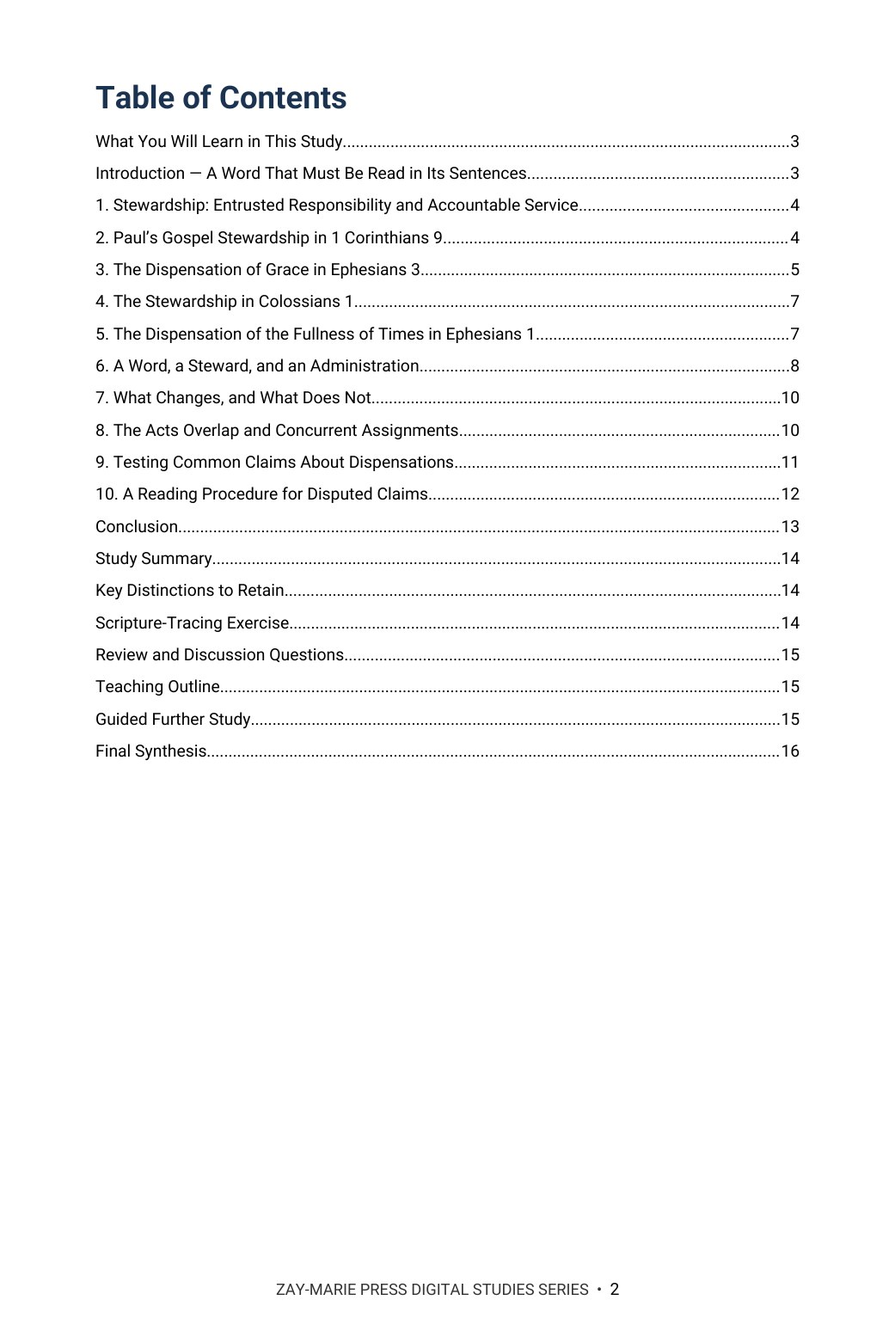
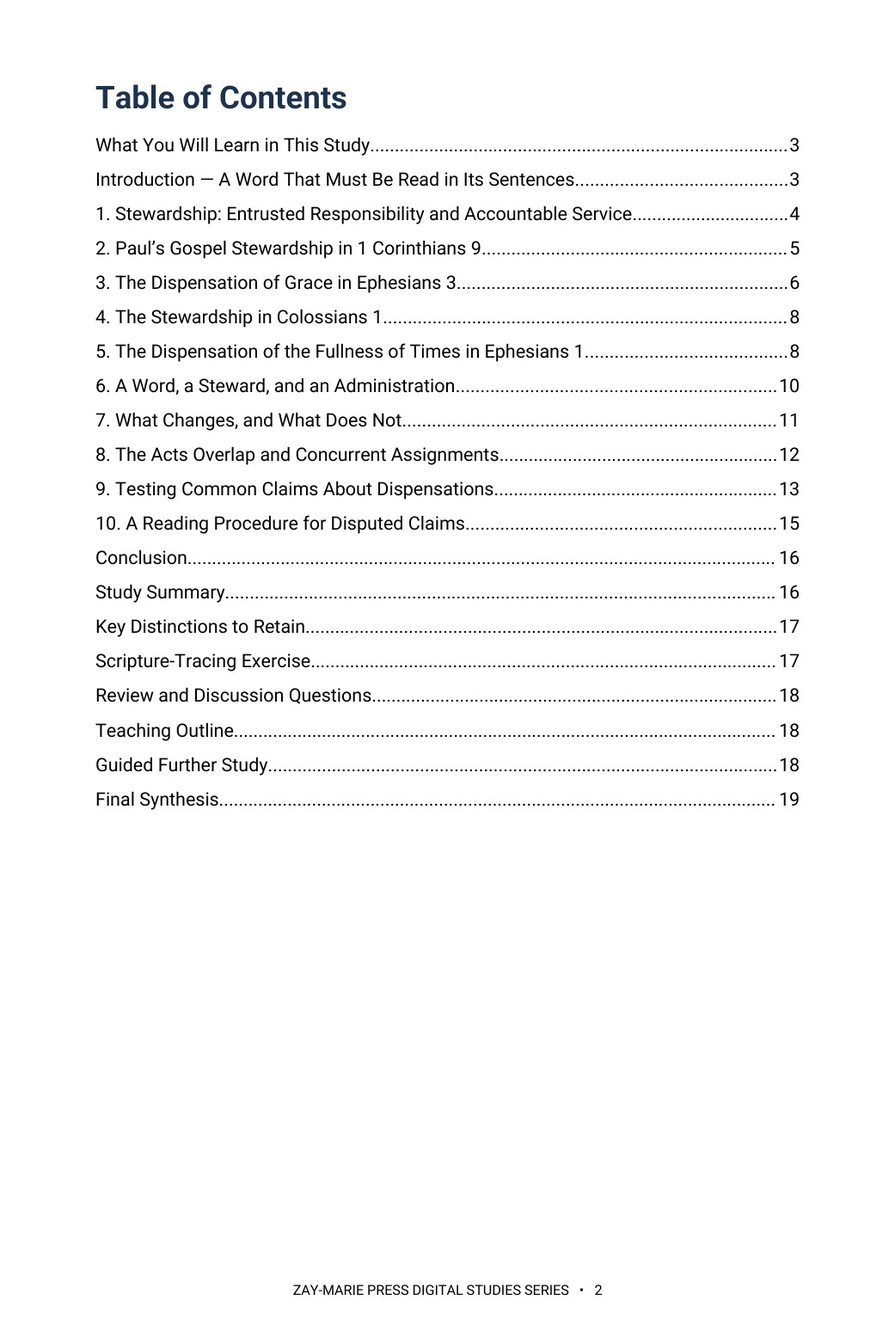
Study 58: rebuild at 10 pt (19 pages), retrofit edits, previews 2/3/8; trackers v1.71/v1.165
Claude-Session: https://claude.ai/code/session_01KcENxFzE91mCRyTPWhcwnE

Changed region(s): [[0.0922, 0.0922, 0.707, 0.6146], [0.8607, 0.0922, 0.8915, 0.5839], [0.3074, 0.9526, 0.6455, 0.9834]]

diff --git a/study-58-what-is-a-dispensation.html b/study-58-what-is-a-dispensation.html
@@ -1,12 +1,12 @@
 <!doctype html>
-<html lang="en"><head><meta charset="utf-8"><meta name="viewport" content="width=device-width,initial-scale=1"><title>What Is a Dispensation? | Zay-Marie Press</title><meta name="description" content="Study 58 examines Paul’s entrusted stewardship, the Mystery revealed through him, and the future administration in Ephesians 1. Preview the 16-page digital study."><link rel="stylesheet" href="styles.css?v=20260921-4"><link rel="icon" type="image/png" href="assets/zay-marie-press-favicon.png"><style>
+<html lang="en"><head><meta charset="utf-8"><meta name="viewport" content="width=device-width,initial-scale=1"><title>What Is a Dispensation? | Zay-Marie Press</title><meta name="description" content="Study 58 examines Paul’s entrusted stewardship, the Mystery revealed through him, and the future administration in Ephesians 1. Preview the 19-page digital study."><link rel="stylesheet" href="styles.css?v=20260921-4"><link rel="icon" type="image/png" href="assets/zay-marie-press-favicon.png"><style>
 .study-detail-page{background:#fff;color:#252525}.detail-hero{background:linear-gradient(135deg,#f8f5ec,#e3ece2);padding:58px 0}.detail-hero-grid{display:grid;grid-template-columns:minmax(250px,.72fr) minmax(0,1.28fr);gap:58px;align-items:center}.detail-cover{max-width:390px;margin:auto}.detail-cover img{display:block;width:100%;height:auto;box-shadow:0 14px 36px rgba(8,45,69,.18)}.detail-hero h1{font-size:clamp(2.7rem,5vw,4.7rem);line-height:1.02;margin:8px 0 10px;color:#143823}.detail-subtitle{font-family:Georgia,serif;font-size:1.35rem;font-weight:700;color:#082d45;margin:0 0 7px}.detail-kicker{font-family:Georgia,serif;font-style:italic;font-size:1.05rem;color:#4a4a44;margin:0 0 22px}.detail-copy{font-size:1.08rem;line-height:1.65;max-width:760px}.detail-buyline{display:flex;align-items:center;gap:18px;flex-wrap:wrap;margin-top:25px}.detail-price{font-family:Georgia,serif;font-size:2rem;font-weight:700;color:#143823}.detail-format,.preview-card .page-no{font-family:Arial,sans-serif;font-size:.76rem;font-weight:700;letter-spacing:.1em;text-transform:uppercase;color:#176b3a}.detail-button{display:inline-block;background:#176b3a;color:#fff;padding:13px 22px;font-family:Arial,sans-serif;font-size:.8rem;font-weight:700;letter-spacing:.07em;text-transform:uppercase}.detail-button.pending{opacity:.72;cursor:default}.detail-section{padding:66px 0}.detail-section.soft{background:#f6f7f2}.detail-section.cream{background:#faf8f2}.detail-section h2{color:#143823;margin:6px 0 18px;font-size:clamp(2rem,3.4vw,3rem)}.detail-section .lead{max-width:920px;font-size:1.1rem;line-height:1.62}.study-distinction{max-width:920px;margin-top:28px;margin-bottom:28px;padding:26px 28px;background:#fff;border:1px solid #d8d1bf;border-left:4px solid #b8871c}.study-distinction h3{margin:0 0 10px;color:#143823}.study-distinction p{margin:0 0 14px;line-height:1.62}.study-distinction a{font-family:Arial,sans-serif;font-weight:700;color:#176b3a;text-decoration:none}.study-points{display:grid;grid-template-columns:repeat(3,1fr);gap:18px;margin-top:28px;margin-bottom:28px}.study-point,.scripture-card,.preview-card,.include-item{background:#fff;border:1px solid var(--line);text-align:left}.study-point{border-top:3px solid #176b3a;padding:22px}.study-point h3{color:#143823;margin:0 0 8px;font-size:1.2rem}.study-point p,.scripture-card p,.preview-card p,.include-item p{margin:0;line-height:1.55}.scripture-grid{display:grid;grid-template-columns:repeat(4,1fr);gap:14px;margin-top:24px;margin-bottom:24px}.scripture-card{padding:22px 20px;color:#143823}.scripture-card h3{margin:0 0 9px;font-family:Georgia,serif;font-size:1rem;line-height:1.35}.scripture-card p{font-size:.94rem;color:#45453f}.excerpt{max-width:900px;margin:28px auto;border-left:4px solid #b8871c;padding:10px 0 10px 28px}.excerpt blockquote{font-family:Georgia,serif;font-size:clamp(1.45rem,2.5vw,2rem);line-height:1.45;color:#143823;margin:0 0 16px}.excerpt p{line-height:1.6;margin:0}.preview-grid{display:grid;grid-template-columns:repeat(2,1fr);gap:20px;margin-top:28px;margin-bottom:28px}.preview-card{padding:18px;min-height:210px;box-shadow:0 7px 20px rgba(20,40,25,.05)}.preview-image-link{display:block;margin:0 0 18px}.preview-image-link img{display:block;width:100%;height:auto;border:1px solid #d8d1bf;box-shadow:0 8px 22px rgba(20,40,25,.1);transition:transform .18s ease,box-shadow .18s ease}.preview-image-link:hover img{transform:translateY(-2px);box-shadow:0 11px 28px rgba(20,40,25,.16)}.preview-card h3{color:#143823;margin:8px 0 10px}.preview-instruction{margin:10px 0 0;font-family:Arial,sans-serif;font-size:.78rem;letter-spacing:.04em;color:#5b5b55}.includes-grid{display:grid;grid-template-columns:repeat(4,1fr);gap:14px;margin-top:26px}.include-item{padding:22px 20px;color:#143823}.include-item h3{margin:0 0 9px;font-family:Arial,sans-serif;font-size:.86rem;line-height:1.35;letter-spacing:.02em}.include-item p{font-size:.94rem;color:#45453f}.final-buy{background:#082d45;color:#fff;border-top:4px solid #b8871c;padding:42px 48px;display:grid;grid-template-columns:1fr auto;gap:36px;align-items:center}.final-buy .eyebrow,.final-buy h2,.final-buy .detail-price{color:#fff}.final-buy h2{margin:7px 0 6px}.final-buy p{margin:0}.final-offer{text-align:center}.back-link{display:inline-block;margin-top:18px;color:#143823;font-family:Arial,sans-serif;font-weight:700;text-decoration:none}.preview-lightbox{position:fixed;inset:0;z-index:10000;display:none;align-items:flex-start;justify-content:center;background:rgba(8,22,16,.88);padding:24px;overflow:auto}.preview-lightbox.open{display:flex}.preview-lightbox img{display:block;width:auto;height:auto;max-width:none;box-shadow:0 18px 55px rgba(0,0,0,.4);background:#fff}.preview-lightbox-close{position:fixed;top:18px;right:24px;z-index:10001;width:46px;height:46px;border:1px solid rgba(255,255,255,.65);border-radius:50%;background:rgba(0,0,0,.55);color:#fff;font:32px/1 Arial,sans-serif;cursor:pointer}@media(max-width:900px){.detail-hero-grid{grid-template-columns:1fr;gap:34px}.detail-cover{max-width:330px}.study-points{grid-template-columns:repeat(2,1fr)}.scripture-grid,.includes-grid{grid-template-columns:repeat(2,1fr)}.preview-grid,.final-buy{grid-template-columns:1fr}.final-offer{text-align:left}}@media(max-width:560px){.detail-hero{padding:42px 0}.detail-section{padding:50px 0}.study-points,.scripture-grid,.includes-grid{grid-template-columns:1fr}.final-buy{padding:32px 24px}.detail-buyline{align-items:flex-start;flex-direction:column;gap:8px}.preview-lightbox{padding:58px 10px 24px}.preview-lightbox img{width:100%;max-width:100%;height:auto}} .detail-hero h1{font-size:clamp(2.1rem,4.2vw,3.7rem);line-height:1.08}</style></head><body class="study-detail-page">
-<header class="site-header"><div class="wrap nav"><a class="logo" href="index.html" aria-label="Zay-Marie Press home"><img src="assets/zay-marie-press-logo-hq.png" alt="Zay-Marie Press" width="420" height="238"></a><button class="menu-toggle" type="button" aria-expanded="false" aria-controls="primary-nav">MENU</button><nav aria-label="Primary navigation" class="primary-nav" id="primary-nav"><a href="index.html">HOME</a><a href="books.html">BOOKS</a><a href="series.html">SERIES</a><a class="active" aria-current="page" href="digital-studies.html">DIGITAL STUDIES</a><a href="biblical-hermeneutics-course.html">COURSE</a><a href="about.html">ABOUT</a><a href="resources.html">RESOURCES</a><a href="contact.html">CONTACT</a></nav></div></header><main><section class="detail-hero"><div class="wrap detail-hero-grid"><div class="detail-cover"><picture><source srcset="assets/study-58-cover.webp" type="image/webp"><img src="assets/study-58-cover.jpg" alt="What Is a Dispensation? — Study 58 cover"></picture></div><div><div class="eyebrow">STUDY 58 · BIBLICAL INTERPRETATION</div><h1>What Is a Dispensation?</h1><p class="detail-subtitle">Stewardship, Revelation, and the Administration Entrusted to Paul</p><p class="detail-kicker">What was entrusted to Paul, and for whom?</p><p class="detail-copy">“Dispensation” can be used as a label for any biblical era, but Paul speaks of a stewardship given to him for others. Study 58 follows the word in its sentences: who entrusts, who serves, what is administered, and who receives the benefit.</p><p class="detail-copy">Compare Paul’s gospel responsibility, the grace stewardship in Ephesians 3, the ministry in Colossians 1, and God’s future administration in Ephesians 1. The passages share administrative language without describing one identical assignment.</p><div class="detail-buyline"><span class="detail-price">$5.99</span><span class="detail-format">Digital PDF · 16 Pages</span><span class="detail-button pending" aria-disabled="true">Checkout Coming Soon</span></div></div></div></section>
+<header class="site-header"><div class="wrap nav"><a class="logo" href="index.html" aria-label="Zay-Marie Press home"><img src="assets/zay-marie-press-logo-hq.png" alt="Zay-Marie Press" width="420" height="238"></a><button class="menu-toggle" type="button" aria-expanded="false" aria-controls="primary-nav">MENU</button><nav aria-label="Primary navigation" class="primary-nav" id="primary-nav"><a href="index.html">HOME</a><a href="books.html">BOOKS</a><a href="series.html">SERIES</a><a class="active" aria-current="page" href="digital-studies.html">DIGITAL STUDIES</a><a href="biblical-hermeneutics-course.html">COURSE</a><a href="about.html">ABOUT</a><a href="resources.html">RESOURCES</a><a href="contact.html">CONTACT</a></nav></div></header><main><section class="detail-hero"><div class="wrap detail-hero-grid"><div class="detail-cover"><picture><source srcset="assets/study-58-cover.webp" type="image/webp"><img src="assets/study-58-cover.jpg" alt="What Is a Dispensation? — Study 58 cover"></picture></div><div><div class="eyebrow">STUDY 58 · BIBLICAL INTERPRETATION</div><h1>What Is a Dispensation?</h1><p class="detail-subtitle">Stewardship, Revelation, and the Administration Entrusted to Paul</p><p class="detail-kicker">What was entrusted to Paul, and for whom?</p><p class="detail-copy">“Dispensation” can be used as a label for any biblical era, but Paul speaks of a stewardship given to him for others. Study 58 follows the word in its sentences: who entrusts, who serves, what is administered, and who receives the benefit.</p><p class="detail-copy">Compare Paul’s gospel responsibility, the grace stewardship in Ephesians 3, the ministry in Colossians 1, and God’s future administration in Ephesians 1. The passages share administrative language without describing one identical assignment.</p><div class="detail-buyline"><span class="detail-price">$5.99</span><span class="detail-format">Digital PDF · 19 Pages</span><span class="detail-button pending" aria-disabled="true">Checkout Coming Soon</span></div></div></div></section>
 <section class="detail-section"><div class="wrap"><div class="eyebrow">ABOUT THIS STUDY</div><h2>Read the Stewardship in Its Context</h2><p class="lead">Ephesians 3:2 names a stewardship of God’s grace given to Paul for Gentiles. The following verses identify a formerly hidden Mystery now revealed through him and specify fellow membership in one Body in Christ by the gospel. The study distinguishes the entrusted responsibility from the truth made known through it, then compares the different administrative setting of Ephesians 1:10.</p><p class="lead">Study 6 identifies the Mystery’s content; Study 32 compares organizing theological systems; Study 57 examines eternal purpose and Christ’s headship. Study 58 supplies the narrower word and passage study needed before using “dispensation” as a system label. It also shows why Paul’s new stewardship during Acts 9–28 does not itself end Israel’s concurrent prophetic commission or cancel earlier promises.</p>
 <div class="study-distinction"><h3>How These Studies Relate</h3><p>Study 58 asks what the stewardship language actually establishes. Each connected study answers a neighboring question that the word alone cannot settle.</p><p><a href="study-06-the-mystery-revealed-through-paul.html">Study 6 — The Mystery Revealed Through Paul</a> Identify what was hidden and disclosed through Paul; Study 58 then asks how Paul was entrusted to make that truth known.</p><p><a href="study-32-covenant-theology-and-dispensational-theology.html">Study 32 — Covenant Theology and Dispensational Theology</a> Compare wider organizing systems only after testing what Paul’s term establishes in its immediate passages.</p><p><a href="study-57-the-eternal-purpose-of-god.html">Study 57 — The Eternal Purpose of God</a> Examine God’s prior purpose and future fullness without treating Ephesians 1:10 as another description of Paul’s personal commission in Ephesians 3:2.</p><p><a href="study-18-peter-and-paul-distinct-apostolic-commissions.html">Study 18 — Peter and Paul: Distinct Apostolic Commissions</a> Test the concurrent apostolic assignments from Acts and Galatians; the word “dispensation” alone cannot establish their historical timing.</p><p class="connection-guide-link"><a href="study-connections.html#study-58">Explore the full connection guide for Study 58 →</a></p></div>
 <div class="eyebrow">WHAT YOU’LL STUDY</div><h2>Follow the Entrusted Assignment</h2><div class="study-points"><div class="study-point"><h3>Meaning in Context</h3><p>Trace oikonomia through Luke 16:1–4 and 1 Corinthians 4:1–2, noting who entrusts, who serves, and what the context must supply.</p></div><div class="study-point"><h3>Gospel Responsibility</h3><p>Read 1 Corinthians 9:16–18 for the entrusted responsibility, separating the commission from Paul’s chosen manner of exercising it.</p></div><div class="study-point"><h3>Grace Stewardship</h3><p>Follow Ephesians 3:1–12 in order, marking entrustment, revelation, the content stated in verse 6, ministry and present result.</p></div><div class="study-point"><h3>The Colossians Parallel</h3><p>Compare Colossians 1:24–29 with Ephesians 3, noting the steward, the recipients and the proclamation.</p></div><div class="study-point"><h3>Future Administration</h3><p>Read Ephesians 1:9–10 in its own sentence, noting the actor, the scope and the phrase “fulness of times.”</p></div><div class="study-point"><h3>Acts Overlap</h3><p>Test claims about dispensations against Galatians 2:7–9, Acts 15 and Acts 28:25–28, asking what each passage names beyond the word itself.</p></div></div>
 <div class="eyebrow">KEY SCRIPTURES</div><h2>Compare the Passages Before Defining the Term</h2><div class="scripture-grid"><div class="scripture-card"><h3>Luke 16:1–4</h3><p>Note the ordinary household setting: who entrusts, who serves, who is accountable.</p></div><div class="scripture-card"><h3>1 Corinthians 4:1–2</h3><p>Mark what is required of a steward and of whom.</p></div><div class="scripture-card"><h3>1 Corinthians 9:16–18</h3><p>Separate the entrusted responsibility from Paul’s chosen manner of exercising it.</p></div><div class="scripture-card"><h3>Ephesians 3:1–12</h3><p>Follow entrustment, revelation, the content of verse 6, and the ministry that results.</p></div><div class="scripture-card"><h3>Colossians 1:24–29</h3><p>Mark the steward, the giver, the recipients and the proclamation.</p></div><div class="scripture-card"><h3>Ephesians 1:9–10</h3><p>Note the actor, the scope, and the phrase “fulness of times.”</p></div><div class="scripture-card"><h3>Galatians 2:7–9</h3><p>Read what is recorded about the ministries recognized for Peter and for Paul.</p></div><div class="scripture-card"><h3>Acts 28:25–28</h3><p>Trace Paul’s citation of Isaiah, Israel’s response, and the turn to the Gentiles.</p></div></div>
 <div class="eyebrow">FROM THE STUDY</div><h2>The Question Behind the Word</h2><div class="excerpt"><blockquote>“Dispensation” names an administration or stewardship whose precise content comes from its context.</blockquote><p>Ask who entrusted it, who serves, what is ordered or made known, and who receives it before drawing a larger historical conclusion.</p></div>
-<div class="eyebrow">A LOOK INSIDE</div><h2>Preview the Study Before You Purchase</h2><p class="preview-instruction">Click any page to enlarge it for reading.</p><div class="preview-grid"><div class="preview-card"><a class="preview-image-link" data-preview-lightbox href="assets/study-58-page-2.jpg"><img src="assets/study-58-page-2.jpg" alt="Study 58 table of contents"></a><div class="page-no">Interior Page 2</div><h3>Table of Contents</h3><p>See the full structure and scope of the study.</p></div><div class="preview-card"><a class="preview-image-link" data-preview-lightbox href="assets/study-58-page-3.jpg"><img src="assets/study-58-page-3.jpg" alt="Study 58 learning outcomes and goal"></a><div class="page-no">Interior Page 3</div><h3>Learning Outcomes and Study Goal</h3><p>See the questions and interpretive controls that guide the reading.</p></div><div class="preview-card"><a class="preview-image-link" data-preview-lightbox href="assets/study-58-page-7.jpg"><img src="assets/study-58-page-7.jpg" alt="Study 58 interior page comparing Pauline stewardship passages"></a><div class="page-no">Interior Page 7</div><h3>The Stewardship in Colossians</h3><p>Read a substantive comparison without disclosing the study’s full synthesis.</p></div></div>
-<div class="eyebrow">WHAT’S INCLUDED</div><h2>A Focused Study of Stewardship</h2><div class="includes-grid"><div class="include-item"><h3>16-Page Digital PDF</h3><p>Approved cover and 15-page interior with aligned contents.</p></div><div class="include-item"><h3>Ten Teaching Sections</h3><p>Move from the word’s uses to textual and historical claims.</p></div><div class="include-item"><h3>Passage Comparison Table</h3><p>Keep each administration’s subject and scope in view.</p></div><div class="include-item"><h3>Key Distinctions</h3><p>Separate stewardship, content, period, and theological system.</p></div><div class="include-item"><h3>Scripture-Tracing Exercise</h3><p>Record giver, steward, recipients, timing, and what remains unstated.</p></div><div class="include-item"><h3>Teaching Outline and Further Study</h3><p>Use guided passages to explain and test the study’s claims.</p></div></div>
-<div class="final-buy"><div><div class="eyebrow">STUDY 58 · DIGITAL STUDY</div><h2>What Is a Dispensation?</h2><p>16-page digital PDF · For personal use</p></div><div class="final-offer"><div class="detail-price">$5.99</div><span class="detail-button pending" aria-disabled="true">Checkout Coming Soon</span></div></div><a class="back-link" href="digital-studies.html">← Back to All Digital Studies</a></div></section></main><div class="preview-lightbox" id="preview-lightbox" role="dialog" aria-modal="true" aria-label="Expanded study preview"><button class="preview-lightbox-close" type="button" aria-label="Close preview">×</button><img id="preview-lightbox-image" alt=""></div><footer class="site-footer"><div class="wrap footer-grid"><div class="footer-about"><h3>Zay-Marie Press</h3><p class="footer-tagline"><em>Where the Bible Means What It Says.</em></p><p>Zay-Marie Press is a Christian theological publisher dedicated to producing doctrinally precise, carefully structured biblical resources that equip pastors, teachers, and serious students with clarity, depth, and Scripture-anchored truth.</p><p><a href="https://zaymariepress.com">zaymariepress.com</a><br><a href="mailto:info@zaymariepress.com">info@zaymariepress.com</a></p></div><div class="footer-column"><h3>Explore</h3><div class="footer-links-stacked"><a href="books.html">Books</a><br><a href="series.html">Series</a><br><a href="biblical-hermeneutics-course.html">Course</a><br><a href="digital-studies.html">Digital Studies</a><br><a href="resources.html">Resources</a><br><a href="bible-book-summaries.html">Bible Book Summaries</a><br><a href="doctrinal-packets.html">Doctrinal Packets</a><br><a href="historical-drift.html">Historical Drift</a><br><a href="about.html">About</a><br><a href="contact.html">Contact</a></div></div><div class="footer-column"><h3>Reader Support</h3><div class="footer-links-stacked"><a href="reader-support.html#faq">FAQ</a><br><a href="reader-support.html#shipping-returns">Shipping &amp; Returns</a><br><a href="reader-support.html#digital-downloads">Digital Downloads</a><br><a href="reader-support.html#contact-support">Contact Support</a></div></div><div class="footer-column"><h3>Acts Overlap</h3><p><strong>Acts Overlap Theology Series</strong></p><p><em>Two Distinct Streams. One Overlap.</em></p><p><a href="series.html">Series Overview</a></p></div></div><div class="wrap footer-bottom">© 2026 Zay-Marie Press. All rights reserved.</div></footer><script src="site.js"></script><script>const lightbox=document.getElementById('preview-lightbox'),lightboxImage=document.getElementById('preview-lightbox-image'),closeLightbox=()=>{lightbox.classList.remove('open');lightboxImage.src='';};document.querySelectorAll('[data-preview-lightbox]').forEach(link=>link.addEventListener('click',event=>{event.preventDefault();lightboxImage.src=link.href;lightboxImage.alt=link.querySelector('img').alt;lightbox.classList.add('open');}));document.querySelector('.preview-lightbox-close').addEventListener('click',closeLightbox);lightbox.addEventListener('click',event=>{if(event.target===lightbox)closeLightbox();});document.addEventListener('keydown',event=>{if(event.key==='Escape')closeLightbox();});</script></body></html>
+<div class="eyebrow">A LOOK INSIDE</div><h2>Preview the Study Before You Purchase</h2><p class="preview-instruction">Click any page to enlarge it for reading.</p><div class="preview-grid"><div class="preview-card"><a class="preview-image-link" data-preview-lightbox href="assets/study-58-page-2.jpg"><img src="assets/study-58-page-2.jpg" alt="Study 58 table of contents"></a><div class="page-no">Interior Page 2</div><h3>Table of Contents</h3><p>See the full structure and scope of the study.</p></div><div class="preview-card"><a class="preview-image-link" data-preview-lightbox href="assets/study-58-page-3.jpg"><img src="assets/study-58-page-3.jpg" alt="Study 58 learning outcomes and goal"></a><div class="page-no">Interior Page 3</div><h3>Learning Outcomes and Study Goal</h3><p>See the questions and interpretive controls that guide the reading.</p></div><div class="preview-card"><a class="preview-image-link" data-preview-lightbox href="assets/study-58-page-8.jpg"><img src="assets/study-58-page-8.jpg" alt="Study 58 interior page comparing Pauline stewardship passages"></a><div class="page-no">Interior Page 8</div><h3>The Stewardship in Colossians</h3><p>Read a substantive comparison without disclosing the study’s full synthesis.</p></div></div>
+<div class="eyebrow">WHAT’S INCLUDED</div><h2>A Focused Study of Stewardship</h2><div class="includes-grid"><div class="include-item"><h3>19-Page Digital PDF</h3><p>Approved cover and 18-page interior with aligned contents.</p></div><div class="include-item"><h3>Ten Teaching Sections</h3><p>Move from the word’s uses to textual and historical claims.</p></div><div class="include-item"><h3>Passage Comparison Table</h3><p>Keep each administration’s subject and scope in view.</p></div><div class="include-item"><h3>Key Distinctions</h3><p>Separate stewardship, content, period, and theological system.</p></div><div class="include-item"><h3>Scripture-Tracing Exercise</h3><p>Record giver, steward, recipients, timing, and what remains unstated.</p></div><div class="include-item"><h3>Teaching Outline and Further Study</h3><p>Use guided passages to explain and test the study’s claims.</p></div></div>
+<div class="final-buy"><div><div class="eyebrow">STUDY 58 · DIGITAL STUDY</div><h2>What Is a Dispensation?</h2><p>19-page digital PDF · For personal use</p></div><div class="final-offer"><div class="detail-price">$5.99</div><span class="detail-button pending" aria-disabled="true">Checkout Coming Soon</span></div></div><a class="back-link" href="digital-studies.html">← Back to All Digital Studies</a></div></section></main><div class="preview-lightbox" id="preview-lightbox" role="dialog" aria-modal="true" aria-label="Expanded study preview"><button class="preview-lightbox-close" type="button" aria-label="Close preview">×</button><img id="preview-lightbox-image" alt=""></div><footer class="site-footer"><div class="wrap footer-grid"><div class="footer-about"><h3>Zay-Marie Press</h3><p class="footer-tagline"><em>Where the Bible Means What It Says.</em></p><p>Zay-Marie Press is a Christian theological publisher dedicated to producing doctrinally precise, carefully structured biblical resources that equip pastors, teachers, and serious students with clarity, depth, and Scripture-anchored truth.</p><p><a href="https://zaymariepress.com">zaymariepress.com</a><br><a href="mailto:info@zaymariepress.com">info@zaymariepress.com</a></p></div><div class="footer-column"><h3>Explore</h3><div class="footer-links-stacked"><a href="books.html">Books</a><br><a href="series.html">Series</a><br><a href="biblical-hermeneutics-course.html">Course</a><br><a href="digital-studies.html">Digital Studies</a><br><a href="resources.html">Resources</a><br><a href="bible-book-summaries.html">Bible Book Summaries</a><br><a href="doctrinal-packets.html">Doctrinal Packets</a><br><a href="historical-drift.html">Historical Drift</a><br><a href="about.html">About</a><br><a href="contact.html">Contact</a></div></div><div class="footer-column"><h3>Reader Support</h3><div class="footer-links-stacked"><a href="reader-support.html#faq">FAQ</a><br><a href="reader-support.html#shipping-returns">Shipping &amp; Returns</a><br><a href="reader-support.html#digital-downloads">Digital Downloads</a><br><a href="reader-support.html#contact-support">Contact Support</a></div></div><div class="footer-column"><h3>Acts Overlap</h3><p><strong>Acts Overlap Theology Series</strong></p><p><em>Two Distinct Streams. One Overlap.</em></p><p><a href="series.html">Series Overview</a></p></div></div><div class="wrap footer-bottom">© 2026 Zay-Marie Press. All rights reserved.</div></footer><script src="site.js"></script><script>const lightbox=document.getElementById('preview-lightbox'),lightboxImage=document.getElementById('preview-lightbox-image'),closeLightbox=()=>{lightbox.classList.remove('open');lightboxImage.src='';};document.querySelectorAll('[data-preview-lightbox]').forEach(link=>link.addEventListener('click',event=>{event.preventDefault();lightboxImage.src=link.href;lightboxImage.alt=link.querySelector('img').alt;lightbox.classList.add('open');}));document.querySelector('.preview-lightbox-close').addEventListener('click',closeLightbox);lightbox.addEventListener('click',event=>{if(event.target===lightbox)closeLightbox();});document.addEventListener('keydown',event=>{if(event.key==='Escape')closeLightbox();});</script></body></html>

diff --git a/site.js b/site.js
@@ -62,7 +62,7 @@ const resourceModal=document.querySelector('#resource-modal'), resourceModalTitl
 if(resourceModal&&resourceModalTriggers.length){const closeResourceModal=()=>{resourceModal.hidden=true;document.body.classList.remove('resource-modal-open');lastResourceTrigger?.focus();};resourceModalTriggers.forEach(trigger=>trigger.addEventListener('click',()=>{lastResourceTrigger=trigger;if(resourceModalTitle)resourceModalTitle.textContent=trigger.dataset.title||'Resource';if(resourceModalDescription)resourceModalDescription.textContent=trigger.dataset.description||'';if(resourceModalLink){resourceModalLink.href=trigger.dataset.href||'#';resourceModalLink.textContent=trigger.dataset.linkText||'OPEN RESOURCE';}resourceModal.hidden=false;document.body.classList.add('resource-modal-open');resourceModalClose?.focus();}));resourceModalClose?.addEventListener('click',closeResourceModal);resourceModal.addEventListener('click',e=>{if(e.target===resourceModal)closeResourceModal();});document.addEventListener('keydown',e=>{if(e.key==='Escape'&&!resourceModal.hidden)closeResourceModal();});}
 
 /* Display the verified final-PDF page count at the primary purchase decision point. */
-const digitalStudyPageCounts={1:17,2:19,3:16,4:18,5:16,6:16,7:14,8:13,9:16,10:20,11:15,12:15,13:19,14:15,15:15,16:16,17:18,18:18,19:16,20:16,21:17,22:16,23:14,24:16,25:17,26:16,27:16,28:16,29:19,30:17,31:18,32:19,33:18,34:16,35:16,36:16,37:16,38:16,39:16,40:16,41:16,42:16,43:20,44:16,45:16,46:20,47:16,48:16,49:17,50:16,51:16,52:19,53:19,54:16,55:20,56:20,57:20,58:16,59:20,60:15,61:16,62:16,63:16,64:16,65:16,66:16,67:16,68:16,69:16,70:16,71:16};
+const digitalStudyPageCounts={1:17,2:19,3:16,4:18,5:16,6:16,7:14,8:13,9:16,10:20,11:15,12:15,13:19,14:15,15:15,16:16,17:18,18:18,19:16,20:16,21:17,22:16,23:14,24:16,25:17,26:16,27:16,28:16,29:19,30:17,31:18,32:19,33:18,34:16,35:16,36:16,37:16,38:16,39:16,40:16,41:16,42:16,43:20,44:16,45:16,46:20,47:16,48:16,49:17,50:16,51:16,52:19,53:19,54:16,55:20,56:20,57:20,58:19,59:20,60:15,61:16,62:16,63:16,64:16,65:16,66:16,67:16,68:16,69:16,70:16,71:16};
 const digitalStudyMatch=window.location.pathname.match(/\/study-(\d+)-/i);
 const digitalStudyFormat=document.querySelector('.detail-hero .detail-format');
 if(digitalStudyMatch&&digitalStudyFormat){const studyNumber=Number(digitalStudyMatch[1]),pageCount=digitalStudyPageCounts[studyNumber];if(pageCount)digitalStudyFormat.textContent=`Digital PDF · ${pageCount} Pages`;}

diff --git a/CLAUDE.md b/CLAUDE.md
@@ -23,7 +23,7 @@ These are kept in the repo at `controlling-documents/` and are the current versi
 - As of v1.50 (publisher directive, 2026-10-03), the **What You Will Learn in This Study** section is always bulleted, never set as running paragraphs, written into this file in the same pass (Master Standard Section 3 item 4, Section 6 structure line, Section 22): a list of bullet points, each describing one process, textual marker or interpretive discipline the reader will practice (Section 17 still governs what they may say); at most one short lead-in line may stand above the bullets (for example, “By the end of this study, you should be able to:”); the Study Goal callout and the Study Outline keep their own forms. It governs every new study and every study rebuilt or retrofitted from now on; earlier studies take it when reopened or when the publisher directs. In every study check (Step 1), report whether the section is bulleted. First applied to Study 43.
 **`controlling-documents/Digital_Studies_Relationship_Map_v1.39.md`** — records each study's distinct subject, its related studies, the eight priced six-study collections, the Paul's Missionary Journeys cross-reference map, and the five primary catalog categories (currently version 1.39, covers Studies 1–71; update it as new studies publish, bump the version number, rename the file to match, and log the change in its own version-history table — mirroring the Master Standard's `_vX.Y` filename convention). Check a proposed topic against it before recommending or writing a new study. (2026-09-28: the file was missing from this repo despite this note referencing it; replaced from the publisher's copy and bumped v1.15→v1.25 in the same pass. If this note ever again points to a version not present under `controlling-documents/`, ask the publisher for a copy rather than proceeding without the check.)
 - **`controlling-documents/Digital_Studies_Category_Standard_v1.1.md`** — FINAL and binding (publisher, 2026-10-01): the rules for the five primary catalog categories (Foundations, Israel & Prophecy, Body of Christ, Passages, Doctrinal Themes), the ordered decision procedure for new studies, the precedents, all 71 fixed assignments, and the cover-label form for each category. Read it before placing any card or cover label. Do not ask the publisher where a study belongs; apply the procedure and state the result. Only the publisher changes a ruling; then bump this Standard's version and filename, re-letter the cover, and update the Relationship Map.
-- **`controlling-documents/Doctrinal_Upgrade_Retrofit_Plan_v1.70.md`** — working tracker for retrofitting Studies 1–59 to the 2026-10-02 doctrinal upgrade (Framework/PAM v1.1, Master Standard v1.40, Rules 7–17): withdrawn-wording search keys, impact tiers, waves and the per-study method. Read it before continuing the retrofit in any session; update status, bump the version and rename the file as work proceeds.
+- **`controlling-documents/Doctrinal_Upgrade_Retrofit_Plan_v1.71.md`** — working tracker for retrofitting Studies 1–59 to the 2026-10-02 doctrinal upgrade (Framework/PAM v1.1, Master Standard v1.40, Rules 7–17): withdrawn-wording search keys, impact tiers, waves and the per-study method. Read it before continuing the retrofit in any session; update status, bump the version and rename the file as work proceeds.
 - **`controlling-documents/Doctrinal_Packet_Standard_v0.3.md`** — Doctrinal Packet Standard (DRAFT; §7 approved). Governs the separate Doctrinal Packets product strand (5-page interpretive PDFs per Bible book — a print-friendly cover as page 1 plus 4 content pages, $2.99, KJV, pilot: Genesis, live at `packet-genesis.html`, hub `doctrinal-packets.html`; site pages say "5 Pages", cover styles live in `packets.css`, Old Testament blue and New Testament soft pale green, hub listed in Bible order). **Preview rule (publisher directive, 2026-09-29, packets only):** previews show about one page's worth in two cropped views (top of page 1 through the anchor texts; the chart section) — never the exegesis, architecture, Mystery contrast, logic chain, outline, or closing. Master Standard §16/§17 still govern Digital Studies. Bump the version and rename the file as the Standard is finalized.
 - **`controlling-documents/Preview_Page_Spoiler_Retrofit_Audit_v1.4.md`** — working tracker for the Studies 1–60 preview-page conclusion-spoiler retrofit (see the section below). Read it before continuing that audit in any session; update its status fields and changelog, bump the version, and rename the file to match as the audit proceeds — same `_vX.Y` convention as the other controlling documents. As of v1.1, the website-side half was DONE: all 60 studies' "What You'll Study" text was judged against the rule (methodology documented in the file) and 22 points across 11 studies were rewritten and pushed; an unrelated Study 22 content bug (Study 21's content had leaked into it) was also found and fixed. As of v1.2, the publisher supplied Studies 1–60's interior production PDFs and the interior-PDF half was also surveyed (read-only): 10 studies (37, 41, 45, 47, 48, 49, 51, 52, 53, 54) were found to have at least one interior "What You Will Learn" violation, 50 studies were confirmed compliant, and the orphaned `assets/study-45-sanctification-under-grace.docx` (removed from the repo per the publisher in v1.0) was confirmed word-for-word identical to Study 45's actual production interior PDF content. As of v1.3, the publisher supplied editable DOCX sources for all 10 violating studies; all 15 violating points were rewritten and approved, delivered as corrected final PDFs, and — along the way — a second defect was found and fixed (Studies 47 and 48's source DOCX still had an unintegrated cover placeholder despite both being long-published live with real covers; fixed by inserting the existing approved cover art). The website's "What You Will Learn" preview image (`study-NN-page-3.jpg`) was regenerated from the corrected content for all 10 studies and pushed to `main` (commit `cea1859`), verified against a fresh clone. **The website side of this audit is now fully compliant for all 60 studies.** Outstanding: the publisher's purchasable interior PDF files themselves have corrected versions delivered, but distribution to existing purchasers was decided by the publisher on 2026-09-29: silent swap of the files behind the existing downloads, no reissue notice (recorded in the v1.4 changelog entry; the product files are not in this repo).
 

diff --git a/controlling-documents/Doctrinal_Upgrade_Retrofit_Plan_v1.71.md b/controlling-documents/Doctrinal_Upgrade_Retrofit_Plan_v1.71.md
@@ -163,3 +163,4 @@ Working tracker for correcting published studies to the Framework/PAM v1.1, Mast
 - v1.68 (2026-10-03): Study 55 rebuilt at 10 pt (Roboto, current page) from the publisher’s older FINAL DOCX with the 2026-10-02 retrofit re-applied (2 "The Framework does not assign …" lines converted; Colossians letter line added after the second paragraph of Section 6; withdrawn "gathered into the Body" overlap sentence in 5.3 replaced by the standing overlap sentence; withdrawn clarifier in Investigation 5 replaced by the standing remnant/Body sentence; Romans 11 four boundaries and triad added in 8.2; "and not a transfer" added to Acts 28 wording in 5.3 and 8.1). 20 pages (was 16). `site.js` 55:20; page-count text 16→20; previews 2, 3 and 9 (third moved from page 8 to 9: the appeal section; `study-55-page-8.jpg` removed). Next: 10 pt resets for 56, 57, 58 (DOCX on hand); 43 and 54 need DOCX; 42, 44, 45, 47, 48, 49, 50, 51 need Roboto finals or a rebuild.
 - v1.69 (2026-10-03): Study 56 rebuilt at 10 pt (Roboto, current page) from the publisher’s older FINAL DOCX with the 2026-10-02 retrofit re-applied (1 Peter and Hebrews "The Framework does not assign …" lines converted, Hebrews to the covenant-it-quotes form; Colossians letter line added after the Colossians 3:24 paragraph; withdrawn Galatians 3 "participate spiritually" wording replaced by the standing Galatians 3 sentence; withdrawn "gathered into the Body" overlap sentence (§8, §9) replaced by the standing overlap sentence; withdrawn clarifier in Ephesians 1 (§6) replaced by the standing remnant/Body sentence; "and not a transfer" added to the Acts 28 wording in §2 and §9; "this framework" reworded to "these distinctions"). 20 pages (was 16). `site.js` 56:20; page-count text 16→20 (hero, meta description, buy panel, What’s Included 15→19 interior); previews 2, 3 and 4 re-rendered at 1041×1562. Next: 10 pt resets for 57, 58 (DOCX on hand); 43 and 54 need DOCX; 42, 44, 45, 47, 48, 49, 50, 51 need Roboto finals or a rebuild.
 - v1.70 (2026-10-03): Study 57 rebuilt at 10 pt (Roboto, current page) from the publisher’s older FINAL DOCX with the 2026-10-02 retrofit re-applied (2 Timothy "The Framework does not assign …" line converted; "Acts Overlap framework" working term removed in the Introduction and the third-pass Investigation; withdrawn "gathered into the Body" overlap sentence (§7) replaced by the standing overlap sentence; "and not a transfer" added to the Acts 28 wording in the Introduction and §7; Romans 11 four boundaries and triad added after the Romans 11:25 line in the third pass). 20 pages (was 16); the imprint first fell alone on page 20 and was fixed with layout-only keep-together (the Final Synthesis heading and paragraph move to page 20 with it; TOC 19→20 for that entry). `site.js` 57:20; page-count text 16→20 (hero, meta description, buy panel, What’s Included 15→19 interior); previews 2, 3 and 7 re-rendered at 1041×1562. Next: 10 pt reset for 58 (DOCX on hand); 43 and 54 need DOCX; 42, 44, 45, 47, 48, 49, 50, 51 need Roboto finals or a rebuild.
+- v1.71 (2026-10-03): Study 58 rebuilt at 10 pt (Roboto, current page) from the publisher’s older FINAL DOCX with the 2026-10-02 retrofit re-applied ("this framework" / "Acts Overlap framework" working terms removed in §6, §8 (twice) and the Study Summary; withdrawn "gathered into the Body" overlap sentence (§8) replaced by the standing overlap sentence; "and not a transfer" added to the Acts 28 wording in the Introduction, §8 (twice) and the Investigation; Colossians letter line added at the end of §4; generic "interpretive framework" / "prophetic framework of Acts 2" kept as plain English). 19 pages (was 16). `site.js` 58:19; page-count text 16→19 (hero, meta description, buy panel, What’s Included 15→18 interior); previews 2, 3 and 8 re-rendered at 1041×1562 (third moved from page 7 to 8: the Colossians stewardship section; `study-58-page-7.jpg` removed). All Roboto DOCX on hand (46, 52, 53, 55, 56, 57, 58) are now at 10 pt. Next: 43 and 54 need DOCX; 42, 44, 45, 47, 48, 49, 50, 51 need Roboto finals or a rebuild; 62–70 first retrofit; the 24 older-page studies.

diff --git a/controlling-documents/Digital_Studies_PAM_Audit_v1.165.md b/controlling-documents/Digital_Studies_PAM_Audit_v1.165.md
@@ -394,3 +394,4 @@ Study 15 PDF not yet supplied. Typography: none of Studies 2, 3, 6, 8 is in EB G
 - v1.162 (2026-10-03): Study 55 rebuilt at 10 pt, 20 pages (see Retrofit Plan v1.68).
 - v1.163 (2026-10-03): Study 56 rebuilt at 10 pt, 20 pages (see Retrofit Plan v1.69).
 - v1.164 (2026-10-03): Study 57 rebuilt at 10 pt, 20 pages (see Retrofit Plan v1.70).
+- v1.165 (2026-10-03): Study 58 rebuilt at 10 pt, 19 pages (see Retrofit Plan v1.71).
